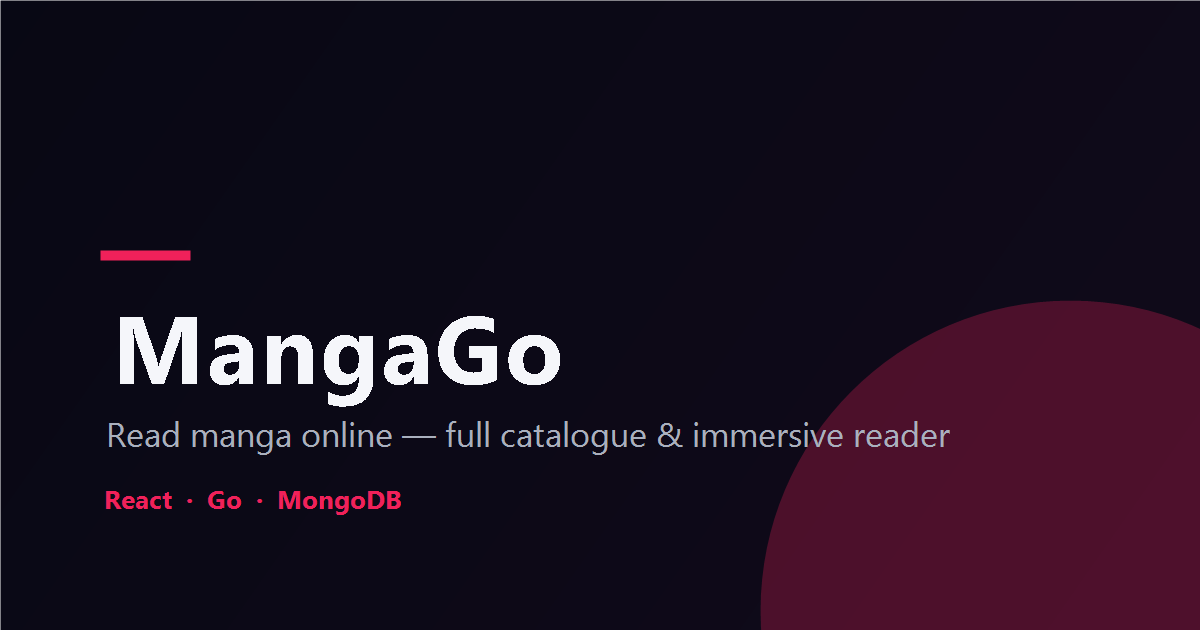
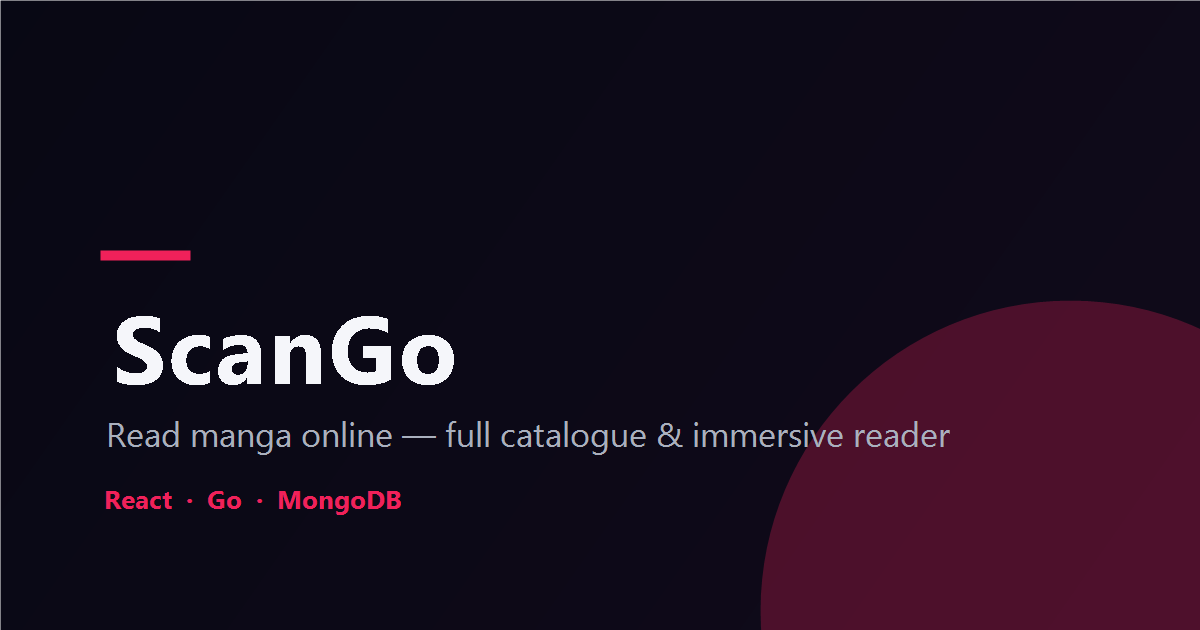
Renomme l'application en ScanGo et bascule sur le domaine personnalisé
- Remplace le nom affiché « MangaGo » par « ScanGo » partout dans le texte :
  titres de page, descriptions, données structurées, carte de partage par
  défaut, middleware d'aperçu et README. L'image du logo est conservée en
  attendant un visuel ScanGo.
- Pointe le domaine public vers https://scango.malekbouzarkouna.com (Seo,
  balises Open Graph statiques, robots.txt, sitemap, origine CORS par défaut
  et User-Agent MangaDex).
- Régénère banner.jpg et og-image.png au nom de ScanGo.

Changed region(s): [[0.0925, 0.4825, 0.4625, 0.6635]]

diff --git a/Client/index.html b/Client/index.html
@@ -13,7 +13,7 @@
 
     <!-- Titre de repli, avant que React ne prenne la main. La description et la
          balise canonique restent gérées par route dans le composant Seo. -->
-    <title>MangaGo, read manga online</title>
+    <title>ScanGo, read manga online</title>
 
     <!-- Carte de partage par défaut.
 
@@ -26,25 +26,25 @@
          ces valeurs par page pour les moteurs capables de rendre React (Google).
          L'URL doit pointer vers le domaine réellement déployé. -->
     <meta property="og:type" content="website" />
-    <meta property="og:site_name" content="MangaGo" />
-    <meta property="og:title" content="MangaGo, read manga online" />
+    <meta property="og:site_name" content="ScanGo" />
+    <meta property="og:title" content="ScanGo, read manga online" />
     <meta
       property="og:description"
       content="Full catalogue, latest releases, genre search, and an immersive reader."
     />
-    <meta property="og:url" content="https://scan-go-lake.vercel.app/" />
-    <meta property="og:image" content="https://scan-go-lake.vercel.app/og-image.png" />
+    <meta property="og:url" content="https://scango.malekbouzarkouna.com/" />
+    <meta property="og:image" content="https://scango.malekbouzarkouna.com/og-image.png" />
     <meta property="og:image:width" content="1200" />
     <meta property="og:image:height" content="630" />
-    <meta property="og:image:alt" content="MangaGo — read manga online" />
+    <meta property="og:image:alt" content="ScanGo — read manga online" />
 
     <meta name="twitter:card" content="summary_large_image" />
-    <meta name="twitter:title" content="MangaGo, read manga online" />
+    <meta name="twitter:title" content="ScanGo, read manga online" />
     <meta
       name="twitter:description"
       content="Full catalogue, latest releases, genre search, and an immersive reader."
     />
-    <meta name="twitter:image" content="https://scan-go-lake.vercel.app/og-image.png" />
+    <meta name="twitter:image" content="https://scango.malekbouzarkouna.com/og-image.png" />
 
     <!-- Préconnexions vers les hôtes d'images, qui servent chaque couverture. -->
     <link rel="preconnect" href="https://uploads.mangadex.org" />
@@ -54,14 +54,14 @@
       {
         "@context": "https://schema.org",
         "@type": "WebSite",
-        "name": "MangaGo",
-        "url": "https://scan-go-lake.vercel.app/",
+        "name": "ScanGo",
+        "url": "https://scango.malekbouzarkouna.com/",
         "inLanguage": "en-US",
         "potentialAction": {
           "@type": "SearchAction",
           "target": {
             "@type": "EntryPoint",
-            "urlTemplate": "https://scan-go-lake.vercel.app/search/{search_term_string}"
+            "urlTemplate": "https://scango.malekbouzarkouna.com/search/{search_term_string}"
           },
           "query-input": "required name=search_term_string"
         }

diff --git a/Client/src/Component/Seo.jsx b/Client/src/Component/Seo.jsx
@@ -2,10 +2,10 @@ import PropTypes from "prop-types";
 import { Helmet } from "react-helmet-async";
 import { cleanText } from "../utils/date";
 
-const SITE_NAME = "MangaGo";
-const ORIGIN = "https://scan-go-lake.vercel.app";
+const SITE_NAME = "ScanGo";
+const ORIGIN = "https://scango.malekbouzarkouna.com";
 const DEFAULT_DESCRIPTION =
-  "Read manga online on MangaGo. Full catalogue, latest releases, genre search, immersive reader and reading history.";
+  "Read manga online on ScanGo. Full catalogue, latest releases, genre search, immersive reader and reading history.";
 // Carte de partage par défaut, servie depuis public/. Les pages qui ont leur
 // propre visuel (une couverture de titre) passent la leur via `image`.
 const DEFAULT_OG_IMAGE = `${ORIGIN}/og-image.png`;

diff --git a/Client/middleware.js b/Client/middleware.js
@@ -22,9 +22,9 @@ const CRAWLER =
   /facebookexternalhit|Facebot|Twitterbot|Slackbot|Discordbot|WhatsApp|TelegramBot|LinkedInBot|Pinterest|redditbot|Embedly|vkShare|SkypeUriPreview|Applebot|Iframely|Mastodon/i;
 
 const BACKEND = process.env.BACKEND_URL || "https://scango-jlfs.onrender.com";
-const SITE_NAME = "MangaGo";
+const SITE_NAME = "ScanGo";
 const DEFAULT_DESCRIPTION =
-  "Read manga online on MangaGo. Full catalogue, latest releases and an immersive reader.";
+  "Read manga online on ScanGo. Full catalogue, latest releases and an immersive reader.";
 
 // Neutralise les caractères qui casseraient les attributs HTML.
 const escapeHtml = (value = "") =>

diff --git a/Client/src/Component/Chapter.jsx b/Client/src/Component/Chapter.jsx
@@ -377,8 +377,8 @@ const ChapterReader = () => {
         path={`/chapter/${chapterId}`}
         description={
           mangaDetails?.title
-            ? `Read ${chapterLabel} de ${mangaDetails.title} online on MangaGo.`
-            : "Chapter reader on MangaGo."
+            ? `Read ${chapterLabel} de ${mangaDetails.title} online on ScanGo.`
+            : "Chapter reader on ScanGo."
         }
         noindex
       />

diff --git a/Client/src/Component/Home.jsx b/Client/src/Component/Home.jsx
@@ -41,7 +41,7 @@ const Home = () => {
     <>
       <Seo
         path="/"
-        description="Read manga online on MangaGo. Full catalogue, latest releases, genre search, immersive reader and reading history."
+        description="Read manga online on ScanGo. Full catalogue, latest releases, genre search, immersive reader and reading history."
       />
 
       {/* Un seul h1 par page, placé en tête du document. La page portait
@@ -50,7 +50,7 @@ const Home = () => {
           carrousel, dont le titre change et ne peut pas servir de titre de
           page. */}
       <h1 className="sr-only-focusable">
-        MangaGo, read manga online
+        ScanGo, read manga online
       </h1>
 
       {error && (

diff --git a/Client/src/Component/Browse.jsx b/Client/src/Component/Browse.jsx
@@ -80,7 +80,7 @@ const Browse = () => {
       <Seo
         title={meta.title}
         path={`/browse/${section}`}
-        description={`${meta.subtitle} on MangaGo. Browse ${total > 0 ? total.toLocaleString("en-US") : "thousands of"} titles.`}
+        description={`${meta.subtitle} on ScanGo. Browse ${total > 0 ? total.toLocaleString("en-US") : "thousands of"} titles.`}
       />
 
       {/* En-tête aligné à gauche plutôt que centré : la lecture d'un catalogue

diff --git a/Client/src/Component/MangaDetails.jsx b/Client/src/Component/MangaDetails.jsx
@@ -123,7 +123,7 @@ const MangaDetails = () => {
         type="book"
         description={
           description ||
-          `Read ${title} online on MangaGo. ${manga.chapters?.length || 0} chapters available.`
+          `Read ${title} online on ScanGo. ${manga.chapters?.length || 0} chapters available.`
         }
         jsonLd={{
           "@context": "https://schema.org",

diff --git a/Client/src/Component/ProfilePage.jsx b/Client/src/Component/ProfilePage.jsx
@@ -73,7 +73,7 @@ const ProfilePage = () => {
       <Seo
         title={`Profile of ${profile.username}`}
         path={`/User/${id}`}
-        description={`Profile of ${profile.username} on MangaGo.`}
+        description={`Profile of ${profile.username} on ScanGo.`}
         noindex
       />
 

diff --git a/Client/src/Component/ShowSearch.jsx b/Client/src/Component/ShowSearch.jsx
@@ -76,7 +76,7 @@ const ShowSearch = () => {
       <Seo
         title={`Search: ${query}`}
         path={`/search/${encodeURIComponent(query)}`}
-        description={`Search results for ${query} on MangaGo.`}
+        description={`Search results for ${query} on ScanGo.`}
         noindex
       />
 

diff --git a/Client/src/Component/ShowTag.jsx b/Client/src/Component/ShowTag.jsx
@@ -66,7 +66,7 @@ const ShowTag = () => {
       <Seo
         title={`${query} manga`}
         path={`/tag/${encodeURIComponent(query)}`}
-        description={`All manga in the ${query} genre, read online on MangaGo.`}
+        description={`All manga in the ${query} genre, read online on ScanGo.`}
       />
 
       <header className="mb-8 border-b border-white/5 pb-6">

diff --git a/Gotestweb/config/config.go b/Gotestweb/config/config.go
@@ -51,7 +51,7 @@ var defaultAllowedRatings = []string{"safe", "suggestive"}
 var defaultAllowedOrigins = []string{
 	"http://localhost:5173",
 	"http://localhost:3000",
-	"https://scan-go-five.vercel.app",
+	"https://scango.malekbouzarkouna.com",
 }
 
 // Load lit l'environnement et interrompt le processus si un réglage

diff --git a/Gotestweb/mangadex/client.go b/Gotestweb/mangadex/client.go
@@ -29,7 +29,7 @@ const BaseURL = "https://api.mangadex.org"
 const UploadsURL = "https://uploads.mangadex.org"
 
 // MangaDex exige un User-Agent identifiable et bloque les clients anonymes.
-const userAgent = "ScanGo/1.0 (+https://scan-go-five.vercel.app)"
+const userAgent = "ScanGo/1.0 (+https://scango.malekbouzarkouna.com)"
 
 // maxResponseBytes plafonne la taille d'une réponse pour éviter qu'un
 // contenu inattendu ne fasse gonfler la mémoire du serveur.